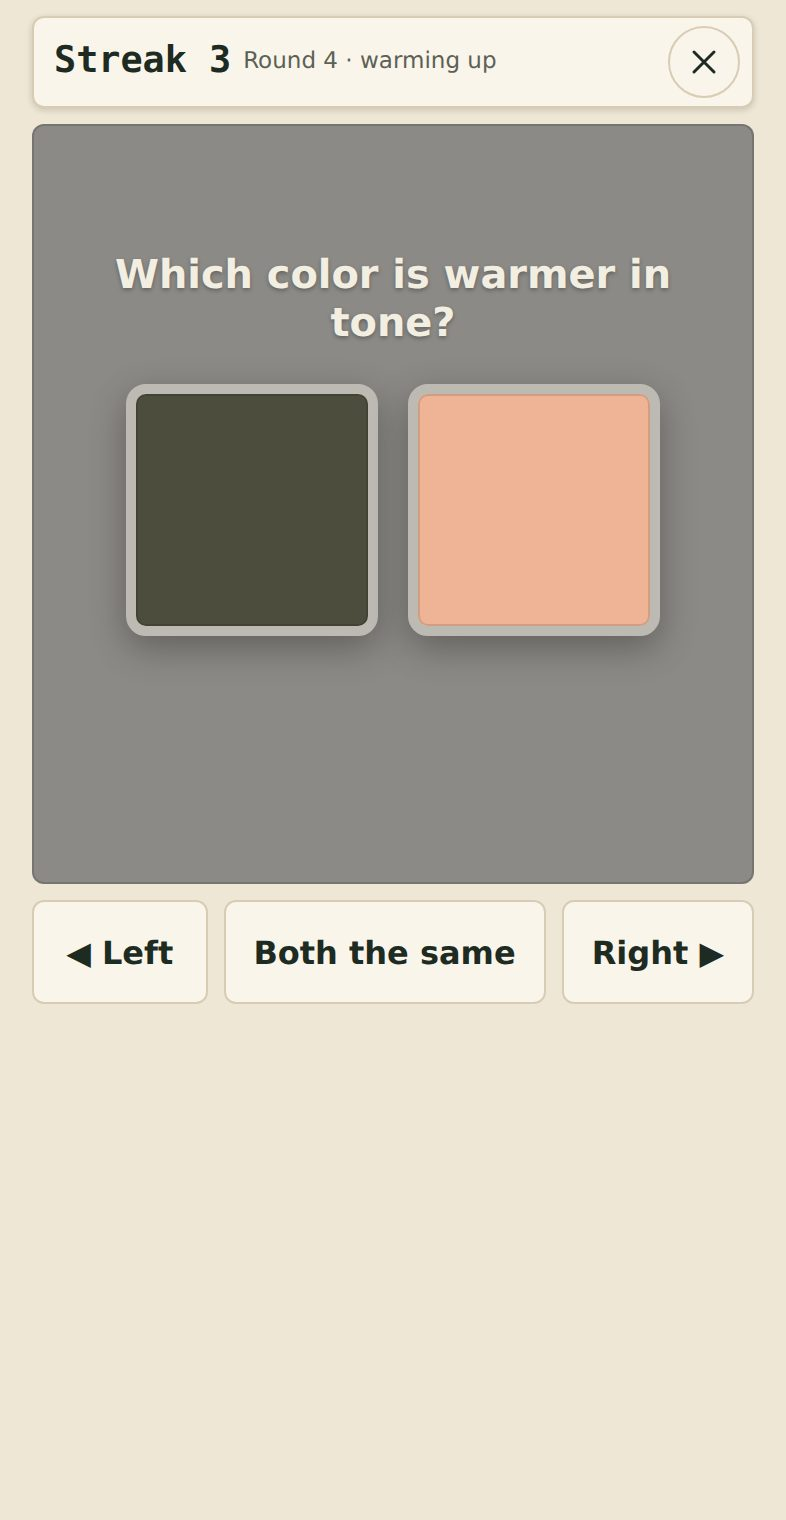
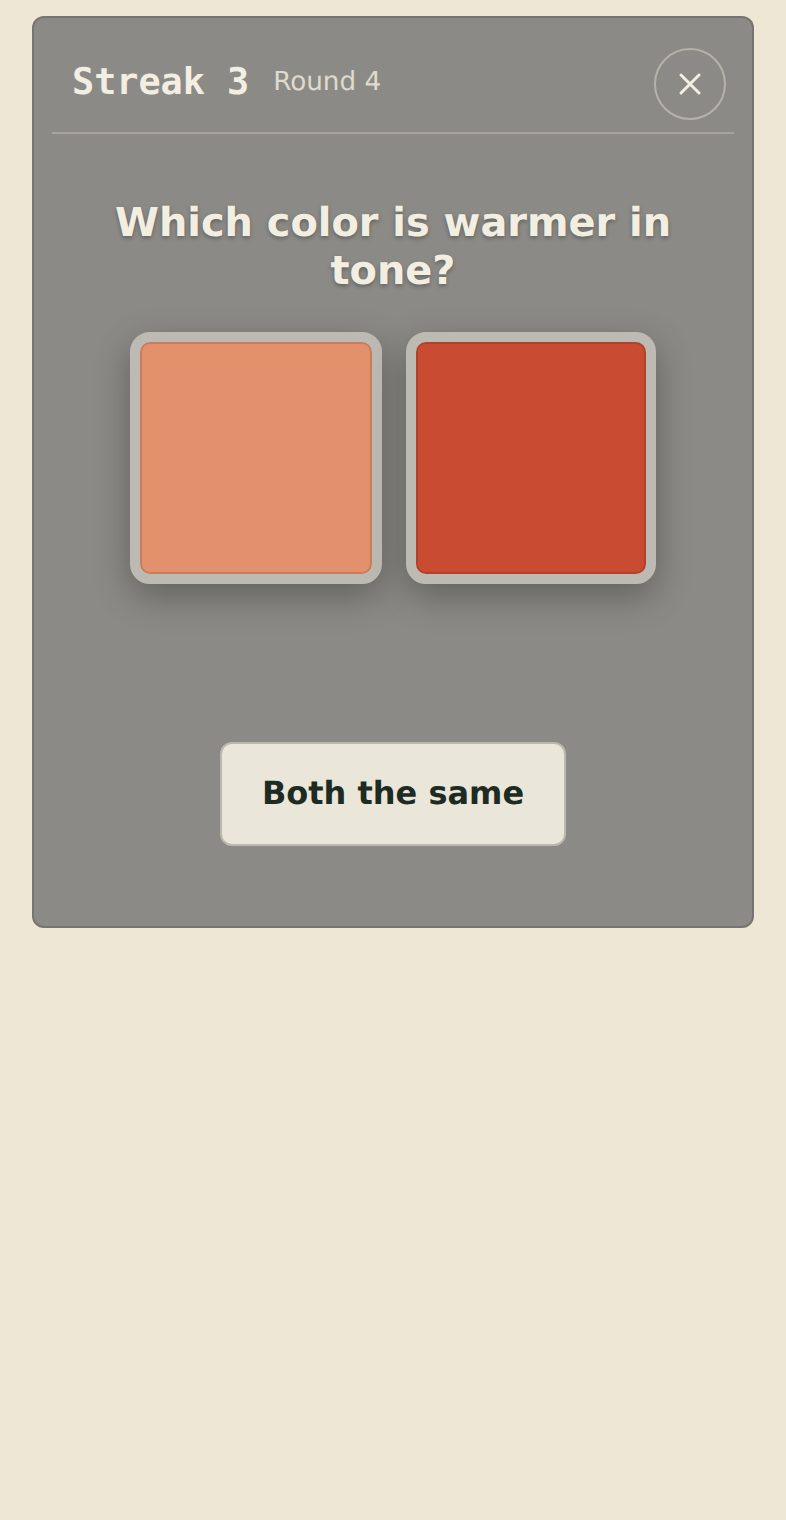
Value battle: everything on the board, one answer button for a pair
The bar (streak, round, clock, quit) and the answer row move inside the
primer-gray board, so the game is one panel. The colors themselves are
the Left and Right answers, leaving a single Both the same button for a
pair; the reset shows only once an order has begun, and Next only after
a right answer.

Claude-Session: https://claude.ai/code/session_01XVREo3r8Hxw4H8arPAzQN1

Changed region(s): [[0.1527, 0.1237, 0.855, 0.4329], [0.0305, 0.4638, 0.9771, 0.6493], [0.0305, 0.0, 0.9771, 0.0928]]

diff --git a/index.html b/index.html
@@ -785,7 +785,7 @@
                 <input type="radio" name="vbCount" id="vbCount4" value="4"><label for="vbCount4">4</label>
                 <input type="radio" name="vbCount" id="vbCountMix" value="mix" checked><label for="vbCountMix">Mix</label>
               </div>
-              <p class="hint">Two colors: left, right or the same. Three or four: tap the darkest or the lightest, or tap them in order.</p>
+              <p class="hint">Tap a color to answer. With two, a button says they are the same. With three or four, tap the darkest or the lightest, or tap them in order.</p>
             </fieldset>
             <fieldset class="field">
               <legend>Mode</legend>
@@ -809,16 +809,23 @@
           </div>
         </div>
         <div class="vb-play" id="vb-play" hidden>
-          <div class="game-bar vb-bar" id="vb-bar">
-            <span class="vb-round" id="vb-round">Streak 0</span>
-            <span class="game-timer vb-time" id="vb-time" hidden>1:00</span>
-            <p class="game-progress" id="vb-score">0 right</p>
-            <button type="button" class="game-icon-btn" id="vb-quit" aria-label="Quit this battle" title="Quit"><svg viewBox="0 0 24 24" aria-hidden="true"><path d="M6 6l12 12M18 6 6 18"/></svg></button>
-          </div>
           <div class="vb-board" id="vb-board">
-            <p class="vb-question" id="vb-question">Which color is darker in value?</p>
-            <div class="vb-swatches" id="vb-swatches" data-count="2"></div>
-            <p class="vb-answer" id="vb-answer" aria-live="polite"></p>
+            <div class="vb-bar" id="vb-bar">
+              <span class="vb-round" id="vb-round">Streak 0</span>
+              <span class="vb-score" id="vb-score">Round 1</span>
+              <span class="vb-time" id="vb-time" hidden>1:00</span>
+              <button type="button" class="vb-quit" id="vb-quit" aria-label="Quit this battle" title="Quit"><svg viewBox="0 0 24 24" aria-hidden="true"><path d="M6 6l12 12M18 6 6 18"/></svg></button>
+            </div>
+            <div class="vb-stage">
+              <p class="vb-question" id="vb-question">Which color is darker in value?</p>
+              <div class="vb-swatches" id="vb-swatches" data-count="2"></div>
+              <p class="vb-answer" id="vb-answer" aria-live="polite"></p>
+              <div class="vb-controls" id="vb-choices">
+                <button type="button" class="btn vb-choice" data-choice="same">Both the same</button>
+                <button type="button" class="btn vb-undo" id="vb-undo" hidden>Start the round over</button>
+                <button type="button" class="btn btn-primary vb-next" id="vb-next" hidden>Next ▸</button>
+              </div>
+            </div>
             <div class="game-popup vb-miss" id="vb-miss" role="group" aria-labelledby="vb-missKicker" hidden>
               <p class="game-kicker" id="vb-missKicker">Not quite</p>
               <p class="vb-miss-why" id="vb-missWhy"></p>
@@ -840,14 +847,28 @@
               </div>
             </div>
           </div>
-          <div class="vb-choices" id="vb-choices">
-            <button type="button" class="btn vb-choice" data-choice="left">◀ Left</button>
-            <button type="button" class="btn vb-choice" data-choice="same">Both the same</button>
-            <button type="button" class="btn vb-choice" data-choice="right">Right ▶</button>
-            <button type="button" class="btn vb-undo" id="vb-undo" disabled>Start the round over</button>
-            <p class="hint vb-tap-hint">Tap the swatches to answer.</p>
+            </div>
+            <div class="game-popup vb-miss" id="vb-miss" role="group" aria-labelledby="vb-missKicker" hidden>
+              <p class="game-kicker" id="vb-missKicker">Not quite</p>
+              <p class="vb-miss-why" id="vb-missWhy"></p>
+              <div class="vb-chips" id="vb-missChips"></div>
+              <div class="game-popup-actions">
+                <button type="button" class="btn btn-primary" id="vb-missNext">See the score</button>
+              </div>
+            </div>
+            <div class="game-popup" id="vb-popup" role="group" aria-labelledby="vb-kicker" hidden>
+              <p class="game-kicker" id="vb-kicker">Streak over</p>
+              <p class="game-pct"><span id="vb-pct">0</span></p>
+              <p class="game-pct-label" id="vb-pctLabel">in a row</p>
+              <div class="game-stars" id="vb-stars" role="img" aria-label=""><span class="game-star"><svg class="star-empty" viewBox="0 0 24 24" aria-hidden="true"><path d="M12 2.6l2.9 6 6.6.9-4.8 4.6 1.2 6.5L12 17.5l-5.9 3.1 1.2-6.5L2.5 9.5l6.6-.9z"/></svg><svg class="star-full" viewBox="0 0 24 24" aria-hidden="true"><path d="M12 2.6l2.9 6 6.6.9-4.8 4.6 1.2 6.5L12 17.5l-5.9 3.1 1.2-6.5L2.5 9.5l6.6-.9z"/></svg></span><span class="game-star"><svg class="star-empty" viewBox="0 0 24 24" aria-hidden="true"><path d="M12 2.6l2.9 6 6.6.9-4.8 4.6 1.2 6.5L12 17.5l-5.9 3.1 1.2-6.5L2.5 9.5l6.6-.9z"/></svg><svg class="star-full" viewBox="0 0 24 24" aria-hidden="true"><path d="M12 2.6l2.9 6 6.6.9-4.8 4.6 1.2 6.5L12 17.5l-5.9 3.1 1.2-6.5L2.5 9.5l6.6-.9z"/></svg></span><span class="game-star"><svg class="star-empty" viewBox="0 0 24 24" aria-hidden="true"><path d="M12 2.6l2.9 6 6.6.9-4.8 4.6 1.2 6.5L12 17.5l-5.9 3.1 1.2-6.5L2.5 9.5l6.6-.9z"/></svg><svg class="star-full" viewBox="0 0 24 24" aria-hidden="true"><path d="M12 2.6l2.9 6 6.6.9-4.8 4.6 1.2 6.5L12 17.5l-5.9 3.1 1.2-6.5L2.5 9.5l6.6-.9z"/></svg></span><span class="game-star"><svg class="star-empty" viewBox="0 0 24 24" aria-hidden="true"><path d="M12 2.6l2.9 6 6.6.9-4.8 4.6 1.2 6.5L12 17.5l-5.9 3.1 1.2-6.5L2.5 9.5l6.6-.9z"/></svg><svg class="star-full" viewBox="0 0 24 24" aria-hidden="true"><path d="M12 2.6l2.9 6 6.6.9-4.8 4.6 1.2 6.5L12 17.5l-5.9 3.1 1.2-6.5L2.5 9.5l6.6-.9z"/></svg></span><span class="game-star"><svg class="star-empty" viewBox="0 0 24 24" aria-hidden="true"><path d="M12 2.6l2.9 6 6.6.9-4.8 4.6 1.2 6.5L12 17.5l-5.9 3.1 1.2-6.5L2.5 9.5l6.6-.9z"/></svg><svg class="star-full" viewBox="0 0 24 24" aria-hidden="true"><path d="M12 2.6l2.9 6 6.6.9-4.8 4.6 1.2 6.5L12 17.5l-5.9 3.1 1.2-6.5L2.5 9.5l6.6-.9z"/></svg></span></div>
+              <p class="game-grade" id="vb-grade"></p>
+              <p class="game-newbest" id="vb-newBest" hidden>New best!</p>
+              <div class="game-popup-actions">
+                <button type="button" class="btn btn-primary" id="vb-again">Play again</button>
+                <button type="button" class="btn btn-ghost" id="vb-settings">Change settings</button>
+              </div>
+            </div>
           </div>
-          <button type="button" class="btn btn-primary vb-next" id="vb-next" hidden>Next ▸</button>
         </div>
       </section>
 
@@ -1003,7 +1024,7 @@
             <h3>Value battle</h3>
             <ol>
               <li>Pick a <strong>palette</strong> and how many <strong>colors</strong> a round has, then <strong>Start the battle</strong>. Every color is mixed from that palette.</li>
-              <li>With two colors, a question asks which is <strong>darker</strong>, <strong>lighter</strong>, <strong>cooler</strong> or <strong>warmer</strong>. Tap <strong>Left</strong>, <strong>Right</strong> or <strong>Both the same</strong>, or tap a swatch.</li>
+              <li>With two colors, a question asks which is <strong>darker</strong>, <strong>lighter</strong>, <strong>cooler</strong> or <strong>warmer</strong>. Tap the color, or <strong>Both the same</strong>.</li>
               <li>With three or four, answer on the swatches: tap the <strong>darkest</strong> or the <strong>lightest</strong>, or tap them <strong>in order</strong> from darkest to lightest. Choose how many colors on the setup, or Mix for all three.</li>
               <li>The answer explains itself: the values on the 0 to 10 scale, or which way each color leans. Then <strong>Next</strong>.</li>
               <li>The rounds keep coming, each a little harder. In <strong>Streak</strong> mode one miss ends it. On the <strong>clock</strong> (1, 2 or 5 minutes) you get as many right as you can. A miss pops up the right answer with the colors in order, then the score pops up with stars and your best is kept.</li>

diff --git a/styles.css b/styles.css
@@ -1520,25 +1520,30 @@ output { font: 500 0.8rem var(--mono); color: var(--muted); font-variant-numeric
   .lh .ps-stage { padding: 18px 88px 18px 400px; }
 }
 
-/* ---- Value battle: two circles on a primer-gray board, three answers below ---- */
+/* ---- Value battle: one primer-gray board holds the bar, the colors and the answers ---- */
 .vb-about h3 { margin: 0; font: 700 1rem var(--display); }
-.vb-play { display: grid; gap: 12px; max-width: 760px; margin-inline: auto; }
-.vb-bar { position: static; grid-area: auto; }
-.vb-bar .game-progress { grid-area: auto; }
+.vb-play { display: grid; max-width: 760px; margin-inline: auto; }
+.vb-board { position: relative; display: grid; grid-template-rows: auto 1fr; gap: 10px; min-height: min(72vh, 600px); padding: 10px 14px 18px; background: #8c8a86; border-radius: var(--r); box-shadow: inset 0 0 0 1px rgba(0, 0, 0, 0.15); }
+.vb-stage { display: grid; gap: 18px; justify-items: center; align-content: center; min-width: 0; }
+.vb-bar { justify-self: stretch; display: flex; align-items: center; gap: 12px; padding: 6px 4px 6px 10px; border-bottom: 1px solid rgba(243, 238, 226, 0.25); color: #f3eee2; }
 .vb-round { font: 700 1.15rem/1 var(--mono); font-variant-numeric: tabular-nums; }
 .vb-round.is-pulse { animation: vb-pulse-btn 0.3s ease-out; display: inline-block; }
-.vb-round.is-milestone { animation: vb-milestone 0.9s ease-out; display: inline-block; color: var(--earth); }
+.vb-round.is-milestone { animation: vb-milestone 0.9s ease-out; display: inline-block; color: #e8c47a; }
 @keyframes vb-milestone { 0% { transform: scale(1); } 30% { transform: scale(1.35); } 60% { transform: scale(0.95); } 100% { transform: scale(1); } }
 @media (prefers-reduced-motion: reduce) { .vb-round.is-pulse, .vb-round.is-milestone { animation: none; } }
-.vb-board { position: relative; display: grid; gap: 18px; justify-items: center; align-content: center; min-height: min(62vh, 520px); padding: 22px 16px; background: #8c8a86; border-radius: var(--r); box-shadow: inset 0 0 0 1px rgba(0, 0, 0, 0.15); }
+.vb-score { flex: 1; font-size: 0.82rem; opacity: 0.8; }
+.vb-time { font: 600 1.3rem/1 var(--mono); font-variant-numeric: tabular-nums; }
+.vb-time.is-low { color: #f0a28a; }
+.vb-quit { appearance: none; width: 36px; height: 36px; border-radius: 50%; border: 1px solid rgba(243, 238, 226, 0.4); background: none; color: #f3eee2; cursor: pointer; display: grid; place-items: center; padding: 0; }
+.vb-quit svg { width: 18px; height: 18px; fill: none; stroke: currentColor; stroke-width: 2; stroke-linecap: round; }
 .vb-question { margin: 0; font: 700 clamp(1.15rem, 1rem + 1vw, 1.5rem)/1.2 var(--display); color: #f3eee2; text-align: center; text-shadow: 0 1px 2px rgba(0, 0, 0, 0.3); }
-.vb-swatches { display: grid; gap: clamp(14px, 4vw, 36px); justify-content: center; grid-template-columns: repeat(2, auto); }
+.vb-swatches { display: grid; gap: clamp(12px, 3vw, 28px); justify-content: center; grid-template-columns: repeat(2, auto); }
 .vb-swatches[data-count="3"] { grid-template-columns: repeat(3, auto); }
 .vb-swatches[data-count="4"] { grid-template-columns: repeat(2, auto); }
 @media (min-width: 640px) { .vb-swatches[data-count="4"] { grid-template-columns: repeat(4, auto); } }
 .vb-swatch { appearance: none; position: relative; width: clamp(110px, 32vw, 190px); height: clamp(110px, 32vw, 190px); border-radius: 10px; border: 5px solid #bdbab4; padding: 0; cursor: pointer; box-shadow: inset 0 0 0 1px rgba(0, 0, 0, 0.12), 0 6px 18px rgba(0, 0, 0, 0.3); transition: transform 0.12s; }
 .vb-swatches[data-count="3"] .vb-swatch { width: clamp(90px, 26vw, 170px); height: clamp(90px, 26vw, 170px); }
-.vb-swatches[data-count="4"] .vb-swatch { width: clamp(100px, 30vw, 150px); height: clamp(100px, 30vw, 150px); }
+.vb-swatches[data-count="4"] .vb-swatch { width: clamp(100px, 30vw, 140px); height: clamp(100px, 30vw, 140px); }
 .vb-swatch:active { transform: scale(0.97); }
 .vb-swatch:focus-visible { outline: 3px solid #faf5ea; outline-offset: 4px; }
 .vb-swatch.is-answer { border-color: #d9a441; box-shadow: inset 0 0 0 1px rgba(0, 0, 0, 0.12), 0 0 0 3px #d9a441, 0 6px 18px rgba(0, 0, 0, 0.3); }
@@ -1561,19 +1566,16 @@ output { font: 500 0.8rem var(--mono); color: var(--muted); font-variant-numeric
 @keyframes vb-pulse-btn { 0% { transform: scale(1); } 40% { transform: scale(1.05); } 100% { transform: scale(1); } }
 @media (prefers-reduced-motion: reduce) { .vb-swatch.is-pulse, .vb-choice.is-pulse { animation: none; } }
 .vb-answer { margin: 0; min-height: 2.8em; max-width: 46ch; text-align: center; font-size: 0.95rem; color: #f3eee2; text-shadow: 0 1px 2px rgba(0, 0, 0, 0.3); }
-.vb-answer.is-right::first-line, .vb-answer.is-wrong::first-line { font-weight: 700; }
-.vb-choices { display: grid; grid-template-columns: 1fr 1.3fr 1fr; gap: 8px; align-items: center; }
-/* which answer controls show depends on the question: buttons for a pair, a reset for an order, a hint for a pick */
-.vb-undo, .vb-tap-hint { display: none; }
-.vb-tap-hint { margin: 0; text-align: center; grid-column: 1 / -1; }
-[data-mode="pick"] .vb-choice, [data-mode="order"] .vb-choice { display: none; }
-[data-mode="pick"] .vb-tap-hint { display: block; }
-[data-mode="order"] .vb-undo { display: block; grid-column: 1 / -1; justify-self: center; }
-.vb-choice { min-height: 52px; font: 600 1rem var(--display); }
-.vb-choice.is-chosen { border-color: var(--accent); box-shadow: inset 0 0 0 1px var(--accent); }
-.vb-choice:disabled { opacity: 0.6; }
-.vb-next { justify-self: end; min-height: 48px; }
+.vb-answer.is-right::first-line { font-weight: 700; }
+/* the answer row inside the board: one button for a pair, a reset once an order has begun, Next after a right answer */
+.vb-controls { display: flex; flex-wrap: wrap; justify-content: center; gap: 10px; min-height: 52px; }
+.vb-controls .btn { min-height: 48px; padding-inline: 20px; font: 600 1rem var(--display); background: rgba(243, 238, 226, 0.92); border-color: rgba(0, 0, 0, 0.2); color: #1e2b22; }
+.vb-controls .btn-primary { background: #1e2b22; border-color: #1e2b22; color: #faf5ea; }
+.vb-choice { display: none; }
+[data-mode="pair"] .vb-choice { display: inline-block; }
+.vb-answered .vb-choice, .vb-answered .vb-undo { display: none; }
+.vb-choice.is-chosen { box-shadow: 0 0 0 3px #d9a441; }
+.vb-choice.is-pulse { animation: vb-pulse-btn 0.3s ease-out; }
 @media (max-width: 999px) {
-  .battle-focus .vb-play { gap: 8px; }
-  .vb-board { min-height: 50vh; }
+  .vb-board { min-height: 60vh; padding-inline: 10px; }
 }

diff --git a/js/battle.js b/js/battle.js
@@ -1,7 +1,7 @@
 /*
  * Value battle: two, three or four colors mixed from the same palette sit as squares on a primer-
- * gray board. With two, a question asks which is darker, lighter, cooler or warmer, and three
- * buttons answer: the left one, the right one, or both the same. With more, the question is
+ * gray board. With two, a question asks which is darker, lighter, cooler or warmer: tap the color,
+ * or the one button that says both are the same. With more, the question is
  * answered on the swatches: tap the darkest or the lightest, tap them in order from darkest to
  * lightest. The rounds keep coming, each a little harder than the last. In Streak mode the first
  * miss ends it and the score is the streak; on the clock (1, 2 or 5 minutes) a miss only costs the
@@ -238,7 +238,7 @@
     const r = game.rounds[game.i];
     game.answered = false; game.picked = [];
     els.round.textContent = timed() ? `${game.right} right` : `Streak ${game.streak}`;
-    els.score.textContent = `Round ${game.i + 1} · ${game.i < 6 ? 'warming up' : game.i < 16 ? 'closing in' : game.i < 24 ? 'getting hard' : 'a hair apart'}`;
+    els.score.textContent = `Round ${game.i + 1}`;
     els.question.textContent = r.q.ask;
     els.swatches.innerHTML = '';
     els.swatches.dataset.count = r.n;
@@ -254,7 +254,7 @@
     els.answer.textContent = ''; els.answer.classList.remove('is-right', 'is-wrong');
     root.dataset.mode = r.q.mode;
     els.choices.querySelectorAll('.vb-choice').forEach((b) => { b.disabled = false; b.classList.remove('is-chosen'); });
-    els.undo.disabled = true;
+    els.undo.hidden = true;
     els.next.hidden = true;
     root.classList.remove('vb-answered');
   }
@@ -271,13 +271,13 @@
     if (!game || game.answered) return;
     pulse(swatch(i)); click(i);
     const r = game.rounds[game.i];
-    if (r.q.mode === 'pair') { choose(i === 0 ? 'left' : 'right'); return; }
+    if (r.q.mode === 'pair') { choose(i === 0 ? 'left' : 'right'); return; }   // the colors are the Left and Right buttons
     if (r.q.mode === 'pick') { choose(i); return; }
     // order: the next in line
     if (game.picked.includes(i)) return;
     game.picked.push(i);
     const badge = swatch(i).querySelector('.vb-badge'); badge.textContent = game.picked.length; badge.hidden = false;
-    els.undo.disabled = false;
+    els.undo.hidden = game.picked.length === r.n;
     if (game.picked.length === r.n) choose(game.picked.slice());
   }
   els.undo.addEventListener('click', () => {
@@ -285,7 +285,7 @@
     click(2);
     game.picked = [];
     els.swatches.querySelectorAll('.vb-swatch').forEach((b) => { b.classList.remove('is-picked'); b.querySelector('.vb-badge').hidden = true; });
-    els.undo.disabled = true;
+    els.undo.hidden = true;
   });
   const same = (a, b) => Array.isArray(a) ? a.length === b.length && a.every((v, i) => v === b[i]) : a === b;
   // why the answer is what it is, in a sentence the student can check against the swatches
@@ -317,7 +317,7 @@
       if ((timed() ? game.right : game.streak) % 5 === 0) { els.round.classList.remove('is-milestone'); void els.round.offsetWidth; els.round.classList.add('is-milestone'); }
     } else { game.missed++; if (timed()) game.streak = 0; }   // in Streak mode the miss ends the game, and the streak is the score
     els.choices.querySelectorAll('.vb-choice').forEach((b) => { b.disabled = true; b.classList.toggle('is-chosen', b.dataset.choice === choice); });
-    els.undo.disabled = true;
+    els.undo.hidden = true;
     // the right swatches ringed in gold, a wrong pick in red
     const correct = r.q.mode === 'pair' ? (r.answer === 'same' ? [0, 1] : [r.answer === 'left' ? 0 : 1]) : r.q.mode === 'pick' ? [r.answer] : r.answer;
     correct.forEach((i) => swatch(i).classList.add('is-answer'));
@@ -363,7 +363,7 @@
     nextRound();
     startClock();
   });
-  els.choices.querySelectorAll('.vb-choice').forEach((b) => b.addEventListener('click', () => { if (game && !game.answered) { pulse(b); click(b.dataset.choice === 'left' ? 0 : b.dataset.choice === 'same' ? 4 : 8); } choose(b.dataset.choice); }));
+  els.choices.querySelectorAll('.vb-choice').forEach((b) => b.addEventListener('click', () => { if (game && !game.answered) { pulse(b); click(4); } choose(b.dataset.choice); }));
   els.next.addEventListener('click', () => {
     if (!game || !game.answered || game.over) return;
     clearTimeout(game.auto);
@@ -374,8 +374,8 @@
     if (!els.miss.hidden) { if (e.key === 'Enter') els.missNext.click(); return; }
     const r = game.rounds[game.i];
     if (r.q.mode === 'pair') {
-      if (e.key === 'ArrowLeft') choose('left');
-      else if (e.key === 'ArrowRight') choose('right');
+      if (e.key === 'ArrowLeft') tapSwatch(0);
+      else if (e.key === 'ArrowRight') tapSwatch(1);
       else if (e.key === '=' || e.key === 'ArrowDown') choose('same');
     } else if (/^[1-4]$/.test(e.key) && +e.key <= r.n) tapSwatch(+e.key - 1);
     if (e.key === 'Enter' && game.answered) els.next.click();

diff --git a/README.md b/README.md
@@ -104,7 +104,7 @@ The score is out of 1,200. Color accuracy gives up to 1,000: each number scores 
 
 ### Value battle
 
-The second game, under Games, trains the eye. Two, three or four colors mixed from the chosen palette (two or three of its paints with some white, in random parts) sit as squares with gray borders on a primer-gray board. With two, a question asks which is darker in value, lighter in value, cooler in tone or warmer in tone, and three buttons answer: Left, Both the same, or Right (tapping a swatch works too, as do the arrow keys). With three or four, the swatches are lettered and the question is answered on them: tap the color with the darkest value, tap the lightest, or tap them in order from darkest to lightest (each tap numbers a swatch; Start the round over clears them). The setup chooses two, three, four or a mix. The rounds keep coming, each a little harder than the last. In **Streak** mode the first miss ends the game and the score is the streak, counted up in the bar with a flourish every five. On the **clock** (1, 2 or 5 minutes) the score is how many were right before time ran out; a right answer moves on by itself, and a miss only costs the time it takes to read the answer, since the clock pauses while it is shown. Either way a miss pops up the right answer in words, with the colors laid out in order (darkest to lightest for a value question) and their values or leans under them. Value is lightness (L*), shown on the Study tab's 0 to 10 value scale; temperature is the hue, measured as how far it sits from the warmest hue (orange), so a color leaning toward orange and yellow is warm and one leaning toward blue is cool, and colors too gray to have a temperature never get a temperature question. How far apart the colors are follows the round: the first round is easy (at least 14 L* apart in value, or clearly different in temperature, with 12 L* between neighbours in a three- or four-color round), by round 24 it is a hair apart (2.5 to 6 L*, a few degrees of hue, 3.5 L* between neighbours), and it keeps closing in after that, down to a floor the eye can still tell apart. Some rounds are a tie, paired so the colors really are the same in what is asked (equal value but different colors, or the same lean but different values), and Both the same is the right answer. Every tap pulses the swatch or button and clicks like a key on the Paint by numbers palette, a right answer gets that game's chime, and the game's sound switch covers both. After each answer a line explains it with the values or the leans. When the streak ends the score pops up as in Paint by numbers, with stars by the streak (five at 20, four at 12, three at 8, two at 5, one at 2) or, on the clock, by right answers a minute (five at 10, four at 7, three at 5, two at 3, one at 1), and the best for each palette, color count and mode kept in the browser.
+The second game, under Games, trains the eye. Two, three or four colors mixed from the chosen palette (two or three of its paints with some white, in random parts) sit as squares with gray borders on a primer-gray board. With two, a question asks which is darker in value, lighter in value, cooler in tone or warmer in tone: tap the color (or use the arrow keys), or press the one button that says both are the same. Everything lives on the board: the streak, round and clock along its top with the quit button, the colors, the answer line, and the answer row below the colors. With three or four, the swatches are lettered and the question is answered on them: tap the color with the darkest value, tap the lightest, or tap them in order from darkest to lightest (each tap numbers a swatch; Start the round over clears them). The setup chooses two, three, four or a mix. The rounds keep coming, each a little harder than the last. In **Streak** mode the first miss ends the game and the score is the streak, counted up in the bar with a flourish every five. On the **clock** (1, 2 or 5 minutes) the score is how many were right before time ran out; a right answer moves on by itself, and a miss only costs the time it takes to read the answer, since the clock pauses while it is shown. Either way a miss pops up the right answer in words, with the colors laid out in order (darkest to lightest for a value question) and their values or leans under them. Value is lightness (L*), shown on the Study tab's 0 to 10 value scale; temperature is the hue, measured as how far it sits from the warmest hue (orange), so a color leaning toward orange and yellow is warm and one leaning toward blue is cool, and colors too gray to have a temperature never get a temperature question. How far apart the colors are follows the round: the first round is easy (at least 14 L* apart in value, or clearly different in temperature, with 12 L* between neighbours in a three- or four-color round), by round 24 it is a hair apart (2.5 to 6 L*, a few degrees of hue, 3.5 L* between neighbours), and it keeps closing in after that, down to a floor the eye can still tell apart. Some rounds are a tie, paired so the colors really are the same in what is asked (equal value but different colors, or the same lean but different values), and Both the same is the right answer. Every tap pulses the swatch or button and clicks like a key on the Paint by numbers palette, a right answer gets that game's chime, and the game's sound switch covers both. After each answer a line explains it with the values or the leans. When the streak ends the score pops up as in Paint by numbers, with stars by the streak (five at 20, four at 12, three at 8, two at 5, one at 2) or, on the clock, by right answers a minute (five at 10, four at 7, three at 5, two at 3, one at 1), and the best for each palette, color count and mode kept in the browser.
 
 ### How close did I get? (Check my painting)
 
